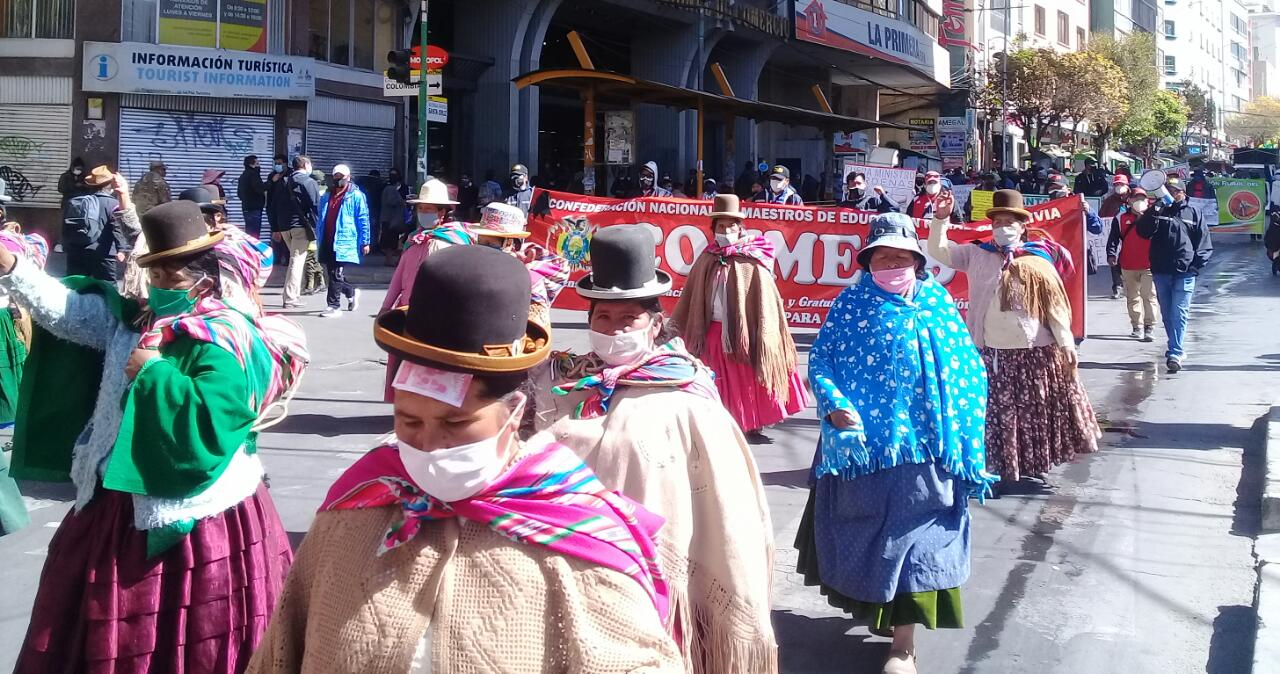
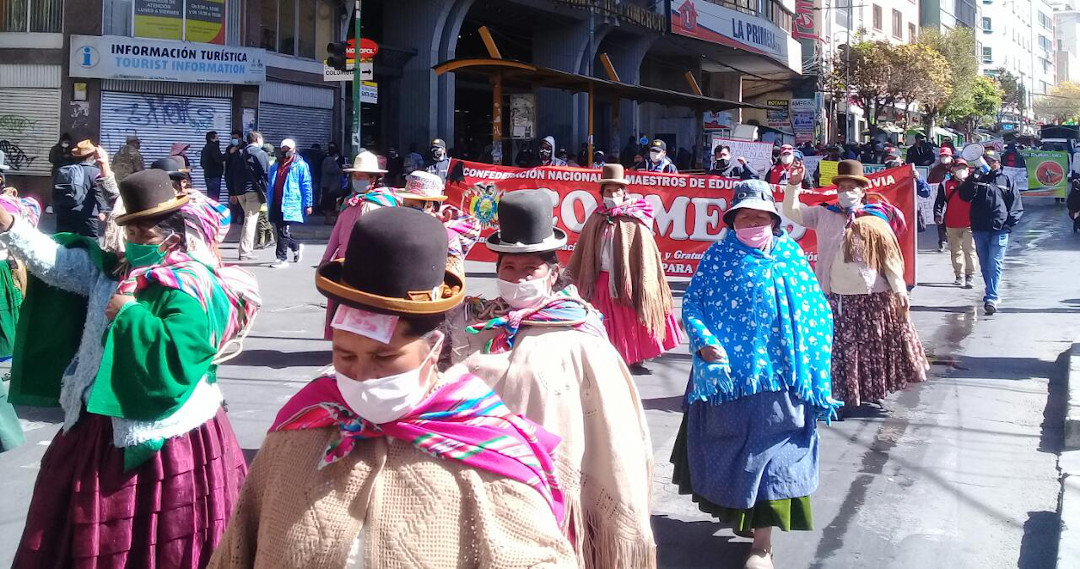
arreglo del tamaño de foto.

diff --git a/public/index.html b/public/index.html
@@ -1602,7 +1602,7 @@
     
     
     <a href="/publication/bolivia-en-una-encrucijada/" >
-      <img src="/publication/bolivia-en-una-encrucijada/featured_huf770c2dabfd4fc9350a428a1ce82a7e1_197252_150x0_resize_q90_lanczos.jpg" alt="Bolivia en una encrucijada">
+      <img src="/publication/bolivia-en-una-encrucijada/featured_hu3d12d3db40f0602b7160f6aca8679e69_280740_150x0_resize_q90_lanczos.jpg" alt="Bolivia en una encrucijada">
     </a>
     
   </div>
@@ -1993,7 +1993,7 @@
     
     
     <a href="/publication/bolivia-en-una-encrucijada/" >
-      <img src="/publication/bolivia-en-una-encrucijada/featured_huf770c2dabfd4fc9350a428a1ce82a7e1_197252_150x0_resize_q90_lanczos.jpg" alt="Bolivia en una encrucijada">
+      <img src="/publication/bolivia-en-una-encrucijada/featured_hu3d12d3db40f0602b7160f6aca8679e69_280740_150x0_resize_q90_lanczos.jpg" alt="Bolivia en una encrucijada">
     </a>
     
   </div>

diff --git a/public/publication/bolivia-en-una-encrucijada/index.html b/public/publication/bolivia-en-una-encrucijada/index.html
@@ -664,7 +664,7 @@
 
 <div class="article-header article-container featured-image-wrapper mt-4 mb-4" style="max-width: 720px; max-height: 379px;">
   <div style="position: relative">
-    <img src="/publication/bolivia-en-una-encrucijada/featured_huf770c2dabfd4fc9350a428a1ce82a7e1_197252_720x0_resize_q90_lanczos.jpg" alt="" class="featured-image">
+    <img src="/publication/bolivia-en-una-encrucijada/featured_hu3d12d3db40f0602b7160f6aca8679e69_280740_720x0_resize_q90_lanczos.jpg" alt="" class="featured-image">
     
   </div>
 </div>
